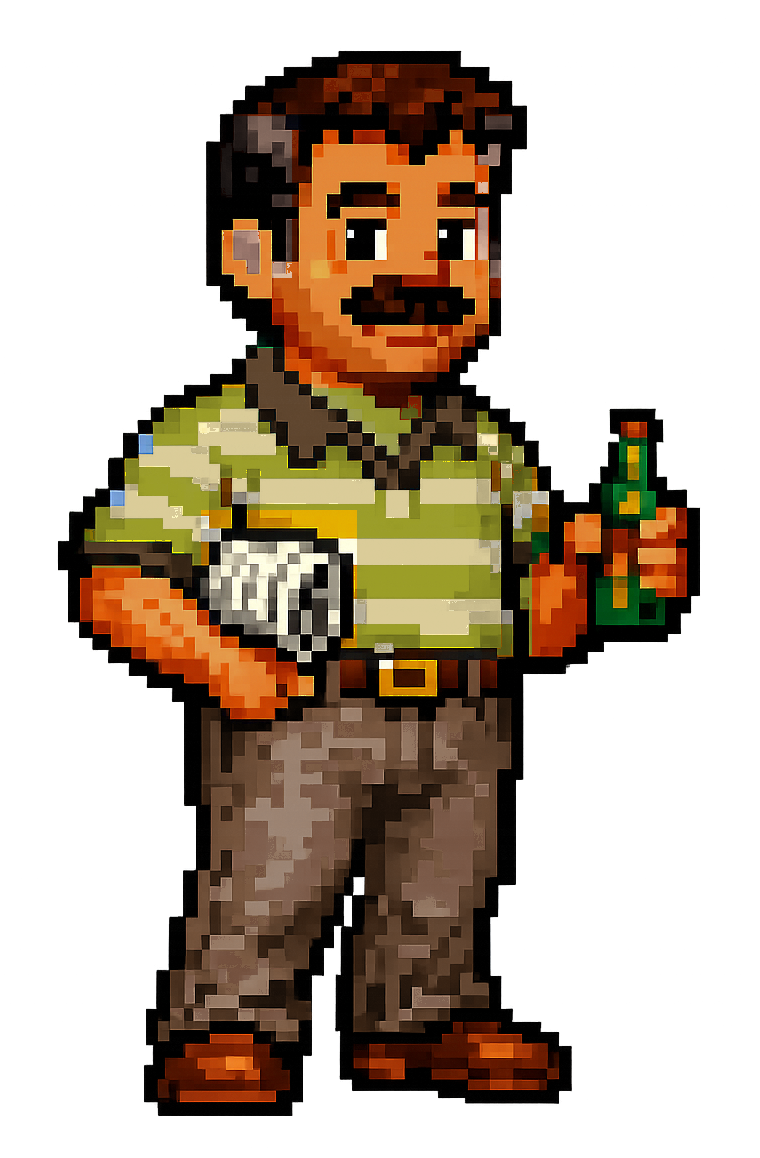
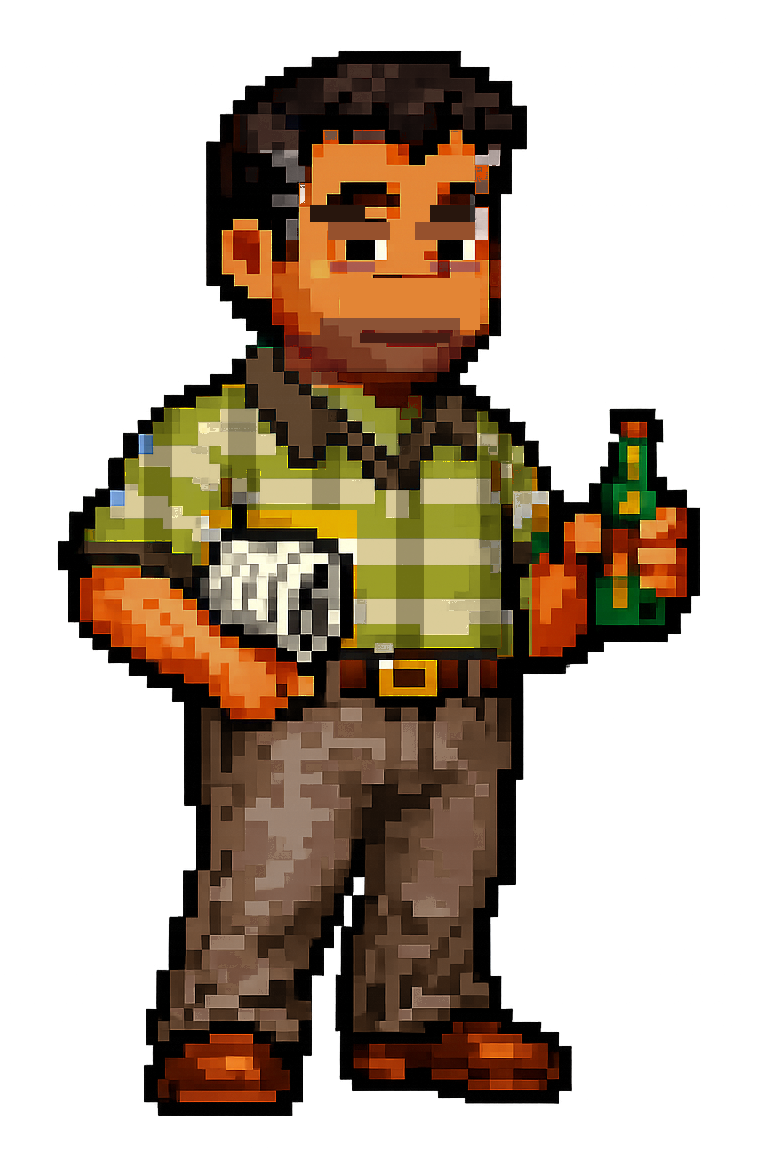
Javier no longer looks like Daniel (tests first): no moustache, stubble that follows the jaw, low heavy brows, drooping eyelids, reddish under-eyes, near-black hair with grey temples, plaid shirt; pixel edits on the original grid, derived by code (no AI). Likeness test: 2 of 3 blind subagents say di
Claude-Session: https://claude.ai/code/session_01KEoVtmbGPQRPnhweMQeCc5

diff --git a/Tools/make_derived_portraits.py b/Tools/make_derived_portraits.py
@@ -109,20 +109,48 @@ class Portrait:
 WARM = (0.02, 0.16)  # Piel y amarillos (separados por zona)
 
 
+def px(p, x0, y0, x1, y1):
+    """Zona en píxeles del original (no relativa)."""
+    return p.zone((x0 / p.w, y0 / p.h, x1 / p.w, y1 / p.h))
+
+
 def javier():
-    """Javier Romero, 44, olivarero: camisa de trabajo caqui/oliva, pantalón de pana marrón, sienes con canas, más
-    curtido por el sol. Sobre el padre, en espejo (Daniel conserva el original)."""
+    """Javier Romero, 44, olivarero: camisa de trabajo de cuadros oliva y caqui, pantalón de pana marrón, piel curtida.
+    Sobre el padre, en espejo (Daniel conserva el original).
+    Sesión C: tenía la cara y el bigote de Daniel. Ahora, editando píxeles de la cara sobre la rejilla del original:
+    sin bigote, barba de días que sigue la mandíbula, cejas bajas y pobladas, párpados caídos, ojeras rojizas, pelo casi
+    negro con las sienes canosas y franjas verticales que convierten las rayas en cuadros."""
     p = Portrait('padre')
     torso = p.zone((0.30, 0.335, 0.90, 0.565)) & ~p.zone((0.555, 0.49, 0.95, 0.65)) & ~p.zone((0.53, 0.44, 0.735, 0.56))
     p.recolor(torso & p.color(s=(0, 0.22), v=(0.75, 1)), hue=0.13, sat_set=0.30, val=0.86)        # rayas blancas → caqui claro
     p.recolor(torso & p.color(h=WARM, s=(0.45, 1), v=(0.55, 1)), hue=0.17, sat=0.75, val=0.62)    # rayas amarillas → oliva
     p.recolor(p.zone((0.30, 0.30, 0.90, 0.56)) & p.color(h=(0.30, 0.50), s=(0.4, 1)), hue=0.08, sat=0.6, val=0.7)  # cuello verde → marrón
     p.recolor(p.zone((0, 0.55, 1, 0.92)) & p.color(h=(0.50, 0.70), s=(0.15, 1)), hue=0.07, sat=0.65, val=0.75)  # vaqueros → pana marrón
-    hair = p.zone((0.28, 0.0, 0.75, 0.125), (0.29, 0.125, 0.37, 0.24), (0.615, 0.125, 0.72, 0.24))
-    p.recolor(hair & p.zone((0.29, 0.10, 0.37, 0.24), (0.615, 0.10, 0.72, 0.24)) & p.color(h=(0.0, 0.10), s=(0.3, 1), v=(0.08, 0.9)),
-              sat=0.30, val=1.0)                                                                   # sienes con alguna cana
     skin = p.color(h=WARM, s=(0.35, 1), v=(0.5, 1)) & ~torso & ~p.zone((0, 0.88, 1, 1))
     p.recolor(skin, hue_shift=-0.012, sat=1.05, val=0.90)                                          # más curtido
+
+    face = px(p, 270, 140, 470, 380)
+    # Sin bigote: todo el labio superior (el bigote tenía un borde claro), con el color de su mejilla
+    cheek = px(p, 300, 230, 330, 260) & p.color(h=WARM, s=(0.3, 1), v=(0.5, 1))
+    cheek_rgb = np.median(hsv_to_rgb(p.hsv)[cheek], axis=0)
+    p.paint(px(p, 280, 278, 420, 330) & p.opaque, tuple(int(c * 255) for c in cheek_rgb))
+    # Barba de días: tono plano (como el sombreado de los originales) que sigue la mandíbula, más oscura abajo
+    jaw = (px(p, 300, 318, 440, 385) | px(p, 265, 335, 475, 385)) & p.color(h=WARM, s=(0.3, 1), v=(0.45, 1))
+    p.recolor(jaw, hue_shift=-0.02, sat=0.80, val=0.62)
+    p.recolor(jaw & ~px(p, 265, 300, 475, 368), val=0.85)
+    p.paint(px(p, 310, 333, 400, 343), (70, 30, 20))                                             # boca recta, cansada
+    for x0, x1 in ((285, 330), (395, 450)):                                                       # cejas bajas y pobladas
+        p.paint(px(p, x0, 205, x1, 222) & face, (40, 22, 14))
+    for x0, x1 in ((280, 330), (385, 430)):                                                       # ojeras rojizas
+        p.recolor(px(p, x0, 262, x1, 272) & p.color(h=WARM, v=(0.4, 1)), hue=0.02, sat=0.7, val=0.75)
+    temples = (px(p, 250, 150, 290, 240) | px(p, 455, 150, 500, 240)) & p.color(h=(0.0, 0.12), s=(0.25, 1), v=(0.15, 0.75))
+    p.recolor(temples, sat_set=0.10, val=1.30)                                                    # sienes canosas
+    hair = px(p, 230, 60, 520, 200) & p.color(h=(0.0, 0.12), s=(0.25, 1), v=(0.12, 0.85)) & ~px(p, 285, 140, 455, 200)
+    p.recolor(hair & ~temples, sat=0.45, val=0.55)                                                # pelo casi negro
+    for x0, x1 in ((285, 345), (370, 432)):                                                       # párpados caídos
+        p.paint(px(p, x0, 222, x1, 240) & face, (150, 82, 45))
+    yy, xx = np.mgrid[0:p.h, 0:p.w]
+    p.recolor(torso & ((xx // 28) % 3 == 0) & p.color(v=(0.25, 1)), val=0.72, sat=1.1)          # rayas → cuadros
     return p.image(mirror=True)
 
 

diff --git a/Tools/tests/test_derived_portraits.py b/Tools/tests/test_derived_portraits.py
@@ -1,0 +1,48 @@
+"""Tests de los retratos derivados (Tools/make_derived_portraits.py). Uso: python -m unittest discover Tools/tests"""
+import os
+import sys
+import unittest
+
+import numpy as np
+
+sys.path.insert(0, os.path.join(os.path.dirname(os.path.abspath(__file__)), '..'))
+import make_derived_portraits as mdp  # noqa: E402
+
+W, H = 760, 1158  # padre.gif.png
+
+
+def region(img, x0, y0, x1, y1, mirror=True):
+    """Zona en coordenadas del original; el derivado de Javier va en espejo."""
+    a = np.asarray(img.convert('RGBA')).astype(float)
+    if mirror:
+        x0, x1 = W - x1, W - x0
+    return a[y0:y1, x0:x1]
+
+
+class JavierTests(unittest.TestCase):
+    """Sesión C: Javier tenía la cara y el bigote de Daniel. Tiene que dejar de parecer la misma persona."""
+
+    @classmethod
+    def setUpClass(cls):
+        cls.img = mdp.javier()
+
+    def test_no_tiene_bigote(self):
+        # Entre la nariz y la boca de Daniel hay un bigote casi negro; en Javier, piel
+        lip = region(self.img, 300, 285, 400, 315)
+        dark = (lip[..., :3].max(-1) < 70) & (lip[..., 3] > 128)
+        self.assertLess(dark.mean(), 0.05, f'{dark.mean():.2f} del labio superior es negro')
+
+    def test_tiene_barba_de_dias(self):
+        cheek = region(self.img, 440, 280, 460, 300)[..., :3].mean()  # mejilla derecha, fuera de la barba
+        chin = region(self.img, 320, 350, 420, 375)[..., :3].mean()
+        self.assertLess(chin, cheek * 0.8, 'el mentón, más oscuro que la mejilla')
+
+    def test_parpados_caidos(self):
+        # La parte de arriba de los ojos de Daniel es blanca (ojos muy abiertos); Javier los tiene entornados
+        lids = region(self.img, 290, 225, 345, 238)
+        white = (lids[..., :3].min(-1) > 220) & (lids[..., 3] > 128)
+        self.assertLess(white.mean(), 0.02)
+
+
+if __name__ == '__main__':
+    unittest.main()
